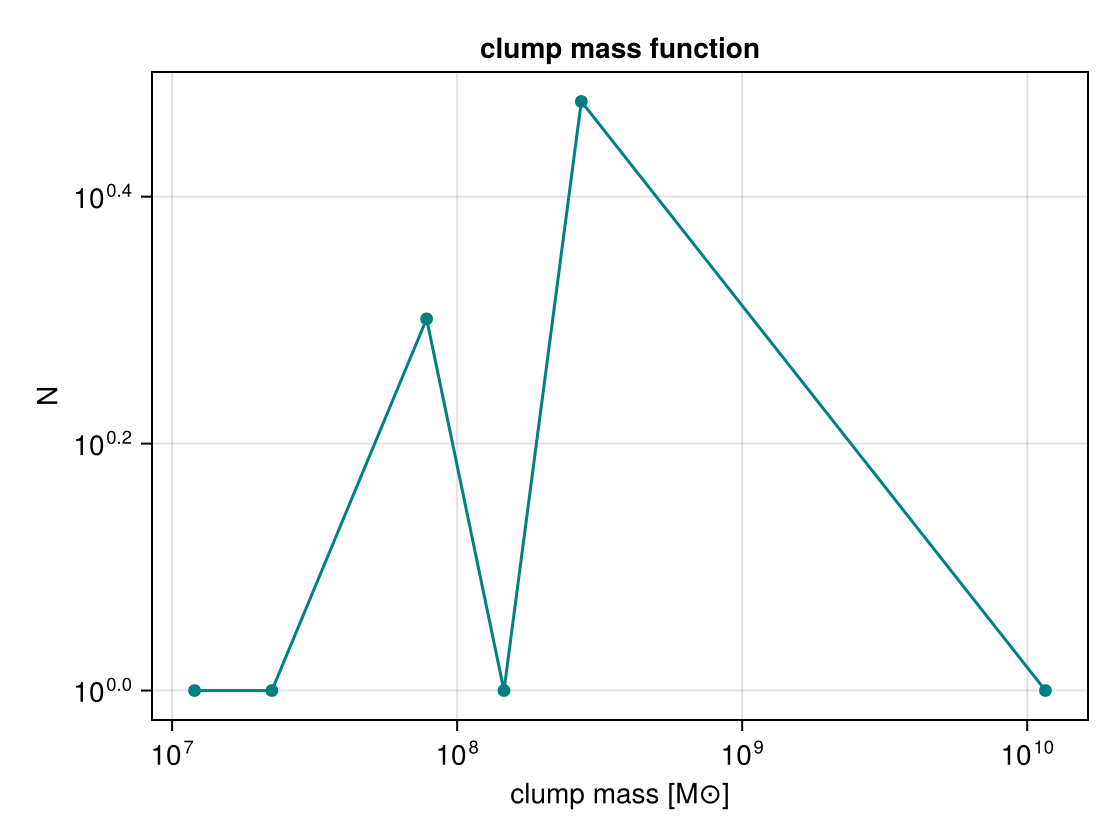
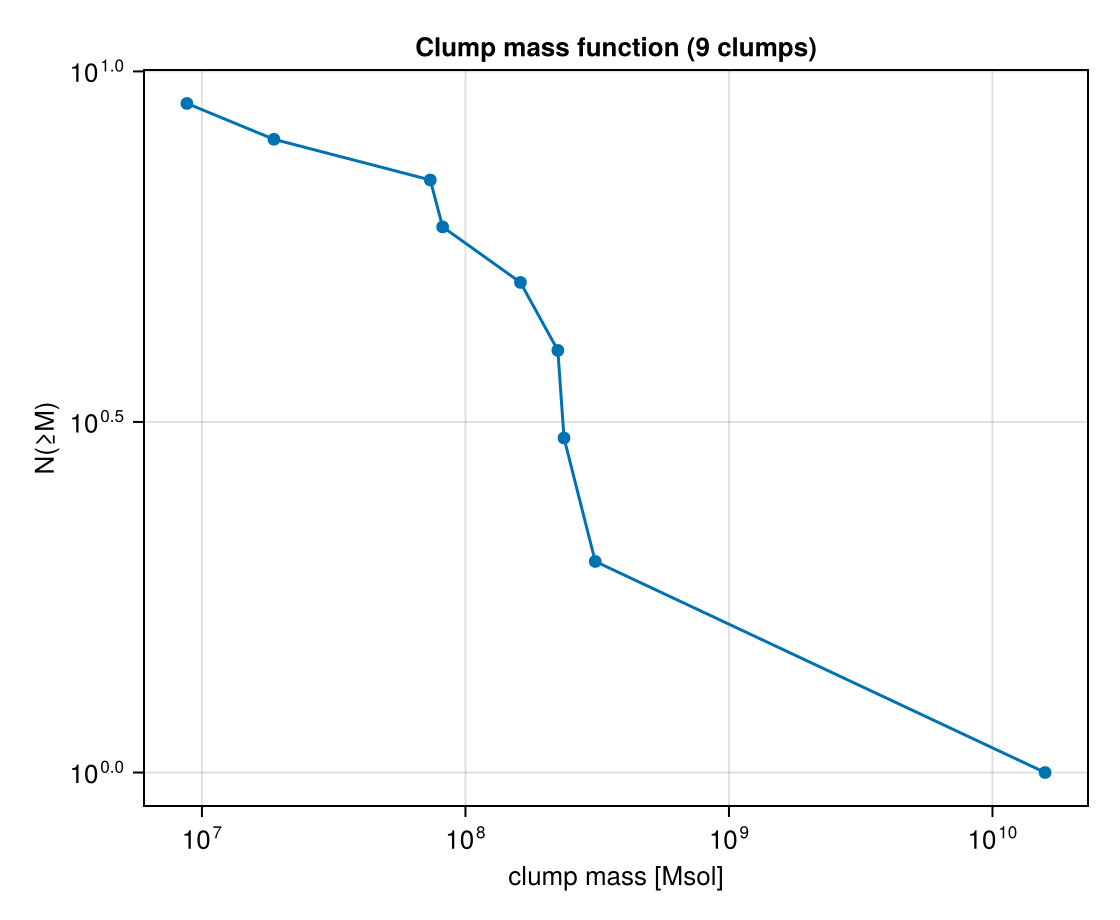
clumpfind: panel remediation — clumpplot/massfunctionplot Makie recipes; restore ClumpCard ascii branch (regression from First-Look panel); public-API tests for all 7 finders + boundedness opts; loud-fail guards (tidal needs substructure, field=:rho on particles, PhaseSpaceFoF deblend); docstring dr

diff --git a/docs/src/clumpfind.md b/docs/src/clumpfind.md
@@ -8,9 +8,10 @@ two ways:
 
 Both return a [`ClumpCatalog`](@ref) sorted most-massive-first.
 
-The 3D finder runs on a pluggable framework: an [`AbstractFinder`](@ref) value
-([`ThresholdFoF`](@ref) or [`DensityWatershed`](@ref)) selects the algorithm, while a shared
-neighbour index, statistics, boundedness and catalog pipeline serves them all. The keyword form
+The 3D finder runs on a pluggable framework: an [`AbstractFinder`](@ref) value (one of seven —
+[`ThresholdFoF`](@ref), [`DensityWatershed`](@ref), [`Dendrogram`](@ref), [`GraphSegFinder`](@ref),
+[`HDBSCANFinder`](@ref), [`PhaseSpaceFoF`](@ref), [`PersistenceFinder`](@ref)) selects the algorithm,
+while a shared neighbour index, statistics, boundedness and catalog pipeline serves them all. The keyword form
 `clumpfind(obj, field; …)` shown throughout this page is a convenience shim that builds a
 `ThresholdFoF` for you, so existing scripts are unchanged; pass a finder explicitly to pick the
 algorithm:
@@ -57,8 +58,23 @@ length(cat)        # number of clumps
 cat[1]             # most massive clump (a NamedTuple)
 ```
 
-![Clumps found by `clumpfind` (orange, marker size ∝ mass) overlaid on the gas surface density Σ — the
-detected clump centres-of-mass sit on the density peaks along the disk and arms.](assets/features/clump_catalog.png)
+With a Makie backend loaded, [`clumpplot`](@ref) draws the catalog directly — each clump's centre of
+mass as a marker sized by mass (and coloured by log mass), optionally over a projection background:
+
+```julia
+using CairoMakie
+bg  = projection(gas, :sd, :Msol_pc2; center=[:bc])
+fig = clumpplot(cat; background=bg)        # marker size ∝ mass, colour = log₁₀ mass
+```
+
+![Clumps found by `clumpfind` ([`clumpplot`](@ref): marker size ∝ mass, colour = log₁₀ mass) overlaid on
+the gas surface density Σ — the detected clump centres-of-mass sit on the density peaks along the disk
+and arms.](assets/features/clump_catalog.png)
+
+!!! warning "`Dendrogram` name clash with Makie"
+    `Makie` also exports a `Dendrogram` type, so when both are loaded (`using Mera, CairoMakie`) a bare
+    `Dendrogram(...)` is ambiguous — qualify Mera's finder as `Mera.Dendrogram(...)` in that case. The
+    other six finders have unique names.
 
 The same call works on particles (e.g. cluster-finding on stars):
 
@@ -178,10 +194,13 @@ together while the `components` breakdown stays the per-species mass budget (`eg
 ```julia
 m, N   = clump_massfunction(cat; nbins=20, scale=:log)   # differential dN per mass bin
 m, Ngt = clump_massfunction(cat; cumulative=true)        # cumulative N(≥M)
+
+using CairoMakie
+fig = massfunctionplot(cat; cumulative=true)             # plot it directly (log–log)
 ```
 
-![Differential clump mass function (`clump_massfunction`): the number of clumps per logarithmic mass
-bin.](assets/features/clump_massfunction.png)
+![Cumulative clump mass function ([`massfunctionplot`](@ref) / [`clump_massfunction`](@ref)): the number
+of clumps with mass ≥ M, on log–log axes.](assets/features/clump_massfunction.png)
 
 A [`ClumpCard`](@ref) runs `clumpfind` inside a [First-Look Report](report.md) (the full catalog is
 kept in the card's `data.catalog`):
